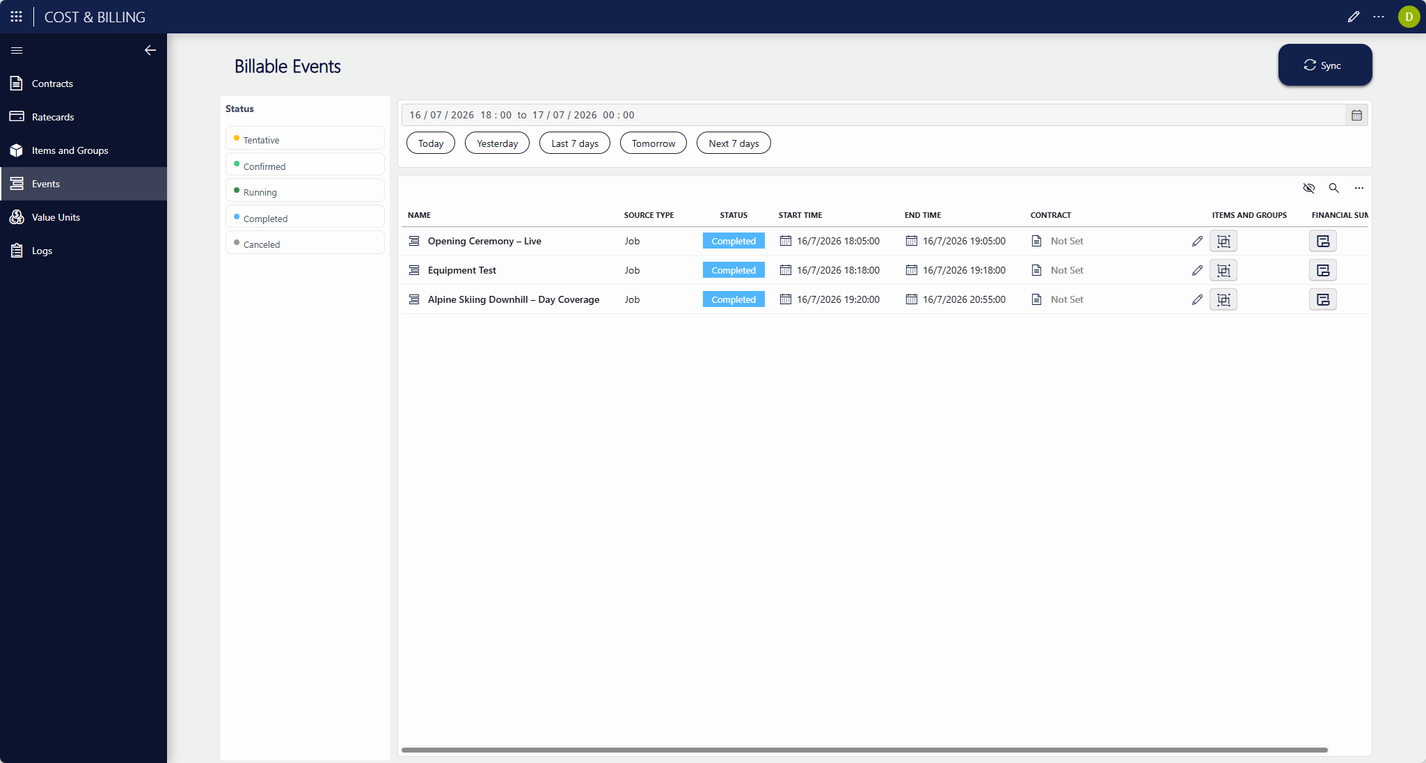
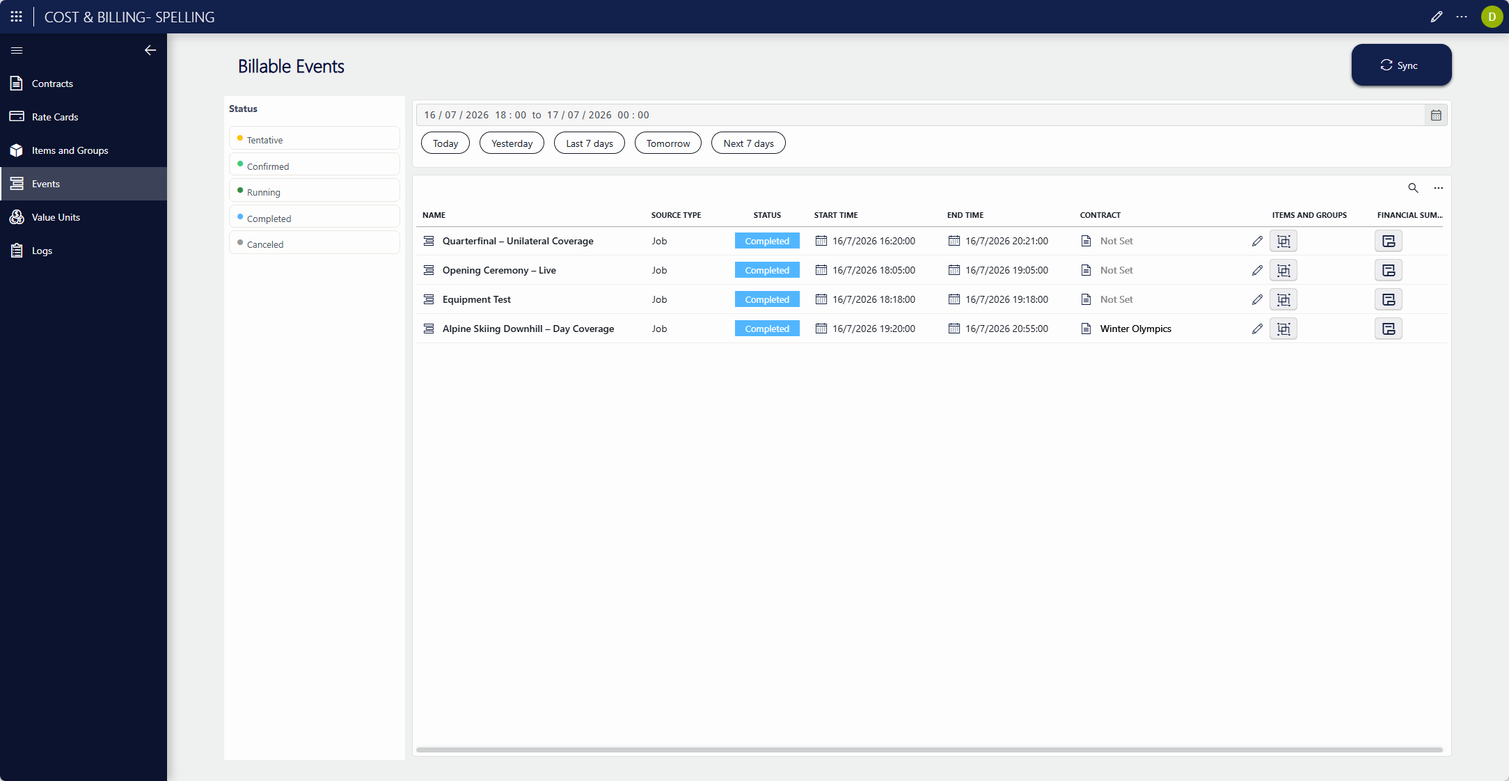
Changed rate card spelling and gui screen shots

diff --git a/solutions/standard_solutions/Cost_And_Billing/Configuration_Usage.md b/solutions/standard_solutions/Cost_And_Billing/Configuration_Usage.md
@@ -3,7 +3,7 @@ uid: Cost_Billing_Use
 ---
 # How to use
 
-This section explains how to use the Cost & Billing application: from the initial configuration of value units, over the creation of ratecards and contracts, to synchronizing data from the external system and calculating the cost and billing of billable events.
+This section explains how to use the Cost & Billing application: from the initial configuration of value units, over the creation of rate cards and contracts, to synchronizing data from the external system and calculating the cost and billing of billable events.
 
 After installing the solution, open the **Cost & Billing Low-Code App** in DataMiner. All configuration and day-to-day operations described below are done from this app.
 
@@ -21,9 +21,9 @@ To set the nominal value unit, click the **Set Nominal Unit** option on the page
 
 ### Defining currency exchange rates
 
-Ratecards and contracts in the application can be defined in different value units. However, since the final calculations are always expressed in the nominal value unit, exchange rates must be defined for every other value unit you want to use.
+Rate cards and contracts in the application can be defined in different value units. However, since the final calculations are always expressed in the nominal value unit, exchange rates must be defined for every other value unit you want to use.
 
-Only the units listed in the Value Units table will be available for selection when creating a ratecard or a contract.
+Only the units listed in the Value Units table will be available for selection when creating a rate card or a contract.
 
 To create a value unit conversion:
 
@@ -35,31 +35,31 @@ All value unit conversion rates are visible on the Value Units page.
 
 ### Editing and deprecating value units
 
-Each value unit can be edited afterwards. A value unit can also be **deprecated**: a deprecated value unit can no longer be used when creating new contracts or ratecards, or when performing calculations. Value Units can also be deprecated in bulk with the action buttons: Deprecate All and Deprecate Selected.
+Each value unit can be edited afterwards. A value unit can also be **deprecated**: a deprecated value unit can no longer be used when creating new contracts or rate cards, or when performing calculations. Value Units can also be deprecated in bulk with the action buttons: Deprecate All and Deprecate Selected.
 
-## Ratecards
+## Rate cards
 
-Ratecards define the rates used by the calculation. Go to the **Ratecards** page to manage all ratecards.
+Rate cards define the rates used by the calculation. Go to the **Rate cards** page to manage all rate cards.
 
-There are two kinds of ratecards, each with a different purpose:
+There are two kinds of rate cards, each with a different purpose:
 
-- **Cost ratecards** — define the internal cost of an item (what it costs your organization).
-- **Billing ratecards** — define the customer-facing rates, and are assigned to contracts.
+- **Cost rate cards** — define the internal cost of an item (what it costs your organization).
+- **Billing rate cards** — define the customer-facing rates, and are assigned to contracts.
 
-![Cost & Billing ratecards](~/solutions/images/CostAndBilling_ratecards.png)
+![Cost & Billing rate cards](~/solutions/images/CostAndBilling_ratecards.png)
 
-### Creating a ratecard
+### Creating a rate card
 
-To create a ratecard, click **+ New Ratecard**. The following fields are available:
+To create a rate card, click **+ New Rate Card**. The following fields are available:
 
 **General**
 
 | Field | Description |
 | --- | --- |
-| **Name** | The name of the ratecard. |
-| **Ratecard Type** | Whether this is a **Cost** or a **Billing** ratecard. |
-| **State** | The initial state of the ratecard. Create it as **Draft** if it is not yet officially ready to be used, or directly as **Active**. |
-| **Value Unit** | The value unit in which the rates of this ratecard are expressed. Only value units defined on the Value Units page are available. |
+| **Name** | The name of the rate card. |
+| **Rate card Type** | Whether this is a **Cost** or a **Billing** rate card. |
+| **State** | The initial state of the rate card. Create it as **Draft** if it is not yet officially ready to be used, or directly as **Active**. |
+| **Value Unit** | The value unit in which the rates of this rate card are expressed. Only value units defined on the Value Units page are available. |
 
 **Rules**
 
@@ -67,23 +67,23 @@ To create a ratecard, click **+ New Ratecard**. The following fields are availab
 | --- | --- |
 | **Minimum Time Interval** | The minimum duration that will be charged. If the actual usage is shorter than this interval, the minimum is charged instead. |
 | **Minimum Time Increment** | The increment in which usage time is charged. Usage is rounded up to the next multiple of this increment. |
-| **Capped Rate** | When enabled, the total amount calculated with this ratecard is capped at the given maximum value. |
+| **Capped Rate** | When enabled, the total amount calculated with this rate card is capped at the given maximum value. |
 
 **Rates**
 
-Each ratecard holds one or more rates, each expressed against a **unit**: per minute, per hour, per day, or per use. Fill in the rate value and select the corresponding unit, and use **+ Add Rate** to add additional rate lines. A rate line can be removed with the **X** button.
+Each rate card holds one or more rates, each expressed against a **unit**: per minute, per hour, per day, or per use. Fill in the rate value and select the corresponding unit, and use **+ Add Rate** to add additional rate lines. A rate line can be removed with the **X** button.
 
-Click **Save** to create the ratecard.
+Click **Save** to create the rate card.
 
-### Ratecard states
+### Rate card states
 
-A ratecard always follows the same state flow: **Draft → Active → Deprecated**.
+A rate card always follows the same state flow: **Draft → Active → Deprecated**.
 
-- **Draft** — the ratecard is being prepared and is not officially ready to be used.
-- **Active** — the ratecard can be use.
-- **Deprecated** — the ratecard is retired. Once a ratecard is deprecated, it can **no longer be edited or set back** to the Active or Draft state.
+- **Draft** — the rate card is being prepared and is not officially ready to be used.
+- **Active** — the rate card can be use.
+- **Deprecated** — the rate card is retired. Once a rate card is deprecated, it can **no longer be edited or set back** to the Active or Draft state.
 
-Ratecards can be edited as long as they are not deprecated. It is also possible to change the state of multiple selected ratecards at once through the **action buttons** on the Ratecards page.
+Rate cards can be edited as long as they are not deprecated. It is also possible to change the state of multiple selected rate cards at once through the **action buttons** on the Rate cards page.
 
 ## Contracts
 
@@ -122,23 +122,23 @@ To create a contract, click **+ New Contract**. The following fields are availab
 
 Click **Save** to create the contract.
 
-### Assigning billing ratecards
+### Assigning billing rate cards
 
-For each contract, it is possible to assign the **billing ratecards** to be used in the calculation. Assignments can be made at different levels:
+For each contract, it is possible to assign the **billing rate cards** to be used in the calculation. Assignments can be made at different levels:
 
-- **Item level** — a billing ratecard assigned to a specific item.
-- **Group level** — a billing ratecard assigned to a specific group.
-- **Category level** — every item and group has a category assigned. Categories can be used to define **default billing ratecards per category**, which apply to all items or groups of that category that do not have a specific assignment.
+- **Item level** — a billing rate card assigned to a specific item.
+- **Group level** — a billing rate card assigned to a specific group.
+- **Category level** — every item and group has a category assigned. Categories can be used to define **default billing rate cards per category**, which apply to all items or groups of that category that do not have a specific assignment.
 
 ### Contract states
 
-Contracts follow the same state flow as ratecards: **Draft → Active → Deprecated**, with the same rules — once deprecated, a contract can no longer be edited or brought back to Active or Draft. The **action buttons** on the Contracts page also allow changing the state of multiple selected contracts in bulk.
+Contracts follow the same state flow as rate cards: **Draft → Active → Deprecated**, with the same rules — once deprecated, a contract can no longer be edited or brought back to Active or Draft. The **action buttons** on the Contracts page also allow changing the state of multiple selected contracts in bulk.
 
 ## Items & Groups
 
 The **Items & Groups** page shows the inventory that has been brought into Cost & Billing from the third-party solution via the adapter:
 
-- The **Items table** lists all items synced from the external system. In the sample solution integrating with MediaOps Plan, these are the **resources and resource pools**. In this table it is possible to assign a **cost ratecard** to an item.
+- The **Items table** lists all items synced from the external system. In the sample solution integrating with MediaOps Plan, these are the **resources and resource pools**. In this table it is possible to assign a **cost rate card** to an item.
 - The **Groups table** lists all groups synced via the adapter. In the MediaOps Plan sample, these are the **workflows**.
 
 ![Cost & Billing items and groups](~/solutions/images/CostAndBilling_items-groups.png)
@@ -178,20 +178,27 @@ To calculate the cost and billing of a billable event make sure the event has a 
 
 #### How the calculation works
 
-> **Note:** This section describes the calculation as implemented in the **MediaOps Plan sample calculation script**, which is **time-based**. As with the adapter, this script is specific to the MediaOps sample integration: it can be **reused as-is** for other time-based integrations, or **used as a base and customized** where a different integration needs different logic. The behavior described below reflects the sample script only — a customized script may calculate differently.
+> **Note:** This section describes the calculation as implemented in the **MediaOps Plan sample calculation script**, which is **time-based**. As with the adapter, this script is specific to the MediaOps Plan sample integration: it can be **reused as-is** for other time-based integrations, or **used as a base and customized** where a different integration needs different logic. The behavior described below reflects the sample script only — a customized script may calculate differently.
 
 When a calculation is triggered on a billable event, the sample script produces a set of **billable items** (calculation lines) for that event: one side for **cost** (what the activity costs your organization) and one side for **billing** (what the customer is charged). The two sides are calculated independently but follow the same time-based logic.
+
+#### Script Input Parameters
+
+| Variable|Description |
+| --- | --- |
+| **Input** | The identifier of the **Billable Event** to calculate |
+| **Output** | Exits success with a summary, or exits fail with the reason |
 
 ##### Cost calculation
 
 Cost is calculated per item of the billable event, in four steps:
 
-1. **Resolve the cost ratecard.** For each item, the script looks for a cost ratecard assigned to the item itself. If the item has none, it falls back to the ratecard of its **parent item** (in MediaOps terms, the resource pool the resource belongs to). If neither has a cost ratecard, the item is skipped and logged as an error — it contributes nothing to the cost.
-2. **Determine the charged time.** The item's real duration (end time − start time) is adjusted by the ratecard's timing rules:
+1. **Resolve the cost rate card.** For each item, the script looks for a cost rate card assigned to the item itself. If the item has none, it falls back to the rate card of its **parent item** (in MediaOps terms, the resource pool the resource belongs to). If neither has a cost rate card, the item is skipped and added to the Error Table. — it contributes nothing to the cost.
+2. **Determine the charged time.** The item's real duration (end time − start time) is adjusted by the rate card's timing rules:
    - **Minimum time interval** — the floor. Usage shorter than the interval is charged as the full interval.
    - **Minimum time increment** — the step size beyond the interval. Any excess above the interval is rounded **up** to the next whole increment.
-3. **Apply the rates.** The charged time is converted into an amount using the ratecard's rates (per minute, per hour, per day). Larger units are filled first, and the smallest available unit absorbs the remainder, rounded up, so no used time is charged as zero. A **per-use** rate, if present, adds a fixed amount on top regardless of duration. If a **capped rate** is set, the item's cost cannot exceed it.
-4. **Write the result.** Each rate produces a billable item line, and the lines are summed into the item's total cost.
+3. **Apply the rates.** The charged time is converted into an amount using the rate card's rates (per minute, per hour, per day). Larger units are filled first, and the smallest available unit absorbs the remainder. A **per-use** rate, if present, adds a fixed amount on top regardless of duration. If a **capped rate** is set, the item's cost cannot exceed it.
+4. **Write the result.** Each rate produces a billable item line, and the lines are summed into the item's total cost. If where  errors or items skipped during the calculation these are added to the Errors Table.
 5. **Override an item's cost (optional)**. After the calculation, the Total Calculated Amount of any billable item can be overridden manually. This value replaces that item's calculated cost entirely, and it is preserved on recalculation: when the event's total cost is computed again, the override is used in the total cost sum instead of the recalculated value.
 
 ##### Billing calculation
@@ -199,7 +206,11 @@ Cost is calculated per item of the billable event, in four steps:
 Billing is calculated in a similar way, but driven by the **contract** assigned to the billable event, and only if the event falls within the contract's validity period.
 
 1. **Determine what is billed.** The contract's **billing type** decides whether billing is calculated for **Items**, **Groups**, or **Items and Groups**. With *Item and Group*, both are calculated independently and their totals are summed.
-2. **Resolve the billing ratecard.** For each item or group, the script looks for a billing ratecard assignment on the contract at the most specific level available: the specific item (or its parent item), the specific group, or the **category** default. If none is found, that entry is skipped and logged as an error.
+2. **Resolve the billing rate card.** The script looks for a billing rate card assignment
+   on the contract, at the most specific level available:
+   - **For an item** — the specific item → its parent item → the item's **category**.
+   - **For a group** — the specific group → the group's **category**. 
+   If none is found, that entry is skipped and added to the Error Table.
 3. **Determine the charged time.** The same timing rules as the cost calculation apply — minimum time interval, minimum time increment, and capped value behave identically on the billing side.
 4. **Apply the contract's commercial modifiers.** After the base amount is calculated, the contract's rules are applied:
    - **Uplift %** — a percentage increase, applied first.
@@ -210,10 +221,13 @@ Billing is calculated in a similar way, but driven by the **contract** assigned 
 
 ##### Currency conversion
 
-Ratecards may be defined in a different value unit than the solution's **nominal value unit**. Any amount produced by a ratecard is converted into the nominal value unit — using the exchange rate valid at the time of the billable event — before it is written to the billable item and rolled into the event totals. This ensures every total on the event is expressed in the same nominal unit.
+Rate cards may be defined in a different value unit than the solution's **nominal value unit**. Any amount produced by a rate card is converted into the nominal value unit — using the exchange rate valid at the time of the billable event (Value Unit Table) — before it is written to the billable item and rolled into the event totals. This ensures every total on the event is expressed in the same nominal unit.
 
 #### Finalize summary
 
 After a calculation, at any point, you can mark the billable event as **Finalized** — a button available in the calculation panel. This **freezes** the calculated results: the billable event can no longer be recalculated.
 
-This is useful when, for example, a ratecard configuration or a contract condition changes afterwards: freezing the result guarantees that such changes will not affect it. Note that this action is **irreversible** — once a billable event is Finalized, it cannot be unfrozen or recalculated, and there is no way back.
+This is useful when, for example, a rate card configuration or a contract condition changes afterwards: freezing the result guarantees that such changes will not affect it. Note that this action is **irreversible** — once a billable event is Finalized, it cannot be unfrozen or recalculated, and there is no way back.
+
+A billable event can be calculated as many times as needed, as long as it has not been
+finalized

diff --git a/solutions/standard_solutions/Cost_And_Billing/Architecture.md b/solutions/standard_solutions/Cost_And_Billing/Architecture.md
@@ -4,7 +4,7 @@ uid: Cost_Billing_Architecture
 
 # Architecture
 
-Cost & Billing is a solution for managing the financial side of daily operations. It calculates both the internal cost and the customer-facing billing of operational activities, based on contracts and ratecards defined within the application.
+Cost & Billing is a solution for managing the financial side of daily operations. It calculates both the internal cost and the customer-facing billing of operational activities, based on contracts and rate cards defined within the application.
 
 The solution is designed to be **source-agnostic**. It operates on generic concepts that are independent of any external system. All integrations with external systems are handled by dedicated **adapters**: the adapter translates source-specific concepts into the generic Cost & Billing model. This way, the Cost & Billing core never references external modules directly. 
 
@@ -21,7 +21,7 @@ The solution is built around three clearly separated layers:
 
 | Layer | Role |
 | --- | --- |
-| **Cost & Billing** | The core module. It owns the generic domain model (Items, Groups, Billable Events, Contracts and Ratecards). It is completely **source-agnostic**: it contains no references any external system. |
+| **Cost & Billing** | The core module. It owns the generic domain model (Items, Groups, Billable Events, Contracts and Rate cards). It is completely **source-agnostic**: it contains no references any external system. |
 | **Adapter** | The component responsible for fetching data from the external system and mapping it to the Cost & Billing domain objects (e.g. resources → Items, jobs → Billable Events). The adapter is the **only** component that knows about both worlds. |
 | **Third-party system** | The external operations platform (MediaOps Plan in the sample, or any equivalent solution). It acts as the source of truth for operational data that must be reflected in Cost & Billing. It is accessed exclusively through the adapter. |
 
@@ -43,10 +43,10 @@ The full component stack of the sample solution:
 
 | Component | Description & role |
 | --- | --- |
-| **LCA (Low-Code App)** | The user-facing DataMiner interface. This is where users manage contracts and ratecards, browse the synced items and billable events, and calculate the cost and billing of those billable events. |
+| **LCA (Low-Code App)** | The user-facing DataMiner interface. This is where users manage contracts and rate cards, browse the synced items and billable events, and calculate the cost and billing of those billable events. |
 | **Interface Script** | A dedicated Automation Script that acts as the  communication layer between the LCA and whichever adapter is deployed. The LCA always calls this script; the script calls the correct adapter. This decouples the LCA from adapter-specific implementation — **swapping or adding adapters requires no changes to the LCA**. |
 | **Automation Scripts** | The solution contains a series of DataMiner Automation Scripts (ad-hoc, interactive, and basic automation). These are mainly used through the LCA to retrieve data, handle user interactions such as creating or saving data, and perform logic. |
-| **Cost & Billing Dev Pack** | A reusable package containing the SDM (Standard Data Model): the DOM interaction layer that provides typed read/write access to the Cost & Billing DOM instances (ratecards, contracts, items, billable events, etc.). |
+| **Cost & Billing Dev Pack** | A reusable package containing the SDM (Standard Data Model): the DOM interaction layer that provides typed read/write access to the Cost & Billing DOM instances (rate cards, contracts, items, billable events, etc.). |
 | **Adapter** | The system-specific component (MediaOps Plan Adapter in the sample). Fetches external data, maps it to Cost & Billing domain objects.
 | **Third-party system** | The external operations platform. Source of truth for operational data. Accessed only through the adapter. |
 
@@ -56,13 +56,13 @@ The full component stack of the sample solution:
 
 The Cost & Billing domain model operates purely on generic concepts:
 
-- **Item** — the individual entity that can be costed and billed. Every Item should have a **CostRatecard** assigned, representing its internal cost. An item carries a `category` attribute (e.g. `Resource` and `Resource Pool`); Cost & Billing stores the category as a string and uses it for default **Billing Ratecard** resolution in a **Contract** without interpreting its meaning. The meaning of each category is defined by the adapter. Items are created and managed by the adapter.
+- **Item** — the individual entity that can be costed and billed. Every Item should have a **Cost Rate Card** assigned, representing its internal cost. An item carries a `category` attribute (e.g. `Resource` and `Resource Pool`); Cost & Billing stores the category as a string and uses it for default **Billing Rate card** resolution in a **Contract** without interpreting its meaning. The meaning of each category is defined by the adapter. Items are created and managed by the adapter.
 - **Group** — a standalone billing entity within a Billable Event. Unlike an Item, a Group does not represent a physical resource — it exists purely as a billing unit. Each Group also carries a `category` attribute (e.g. `Workflow`). A Group can only be billed, never costed — cost is always tracked at the Item level.
 - **Node** — the middle layer between a Billable Event and its Items. A Billable Event does not reference a list of Items directly; it references a list of Nodes. Each Node holds a reference to an Item and, optionally, a reference to a **parent Item**. This makes it possible to express that an Item belongs to another Item within the context of the event. In MediaOps Plan terms, a Node indicates the Item (a resource) and the parent Item (the resource pool it belongs to).
-- **Cost Ratecard** — the internal cost rate for an Item (what it costs the organization), independent of any customer contract. In the time-based sample this is a rate applied against usage duration.
-- **Billing Ratecard** — the customer-facing rate, always assigned within the context of a **Contract**. The same Item can carry different billing rates under different contracts. In the time-based sample this is a rate applied against the duration that an item or group was used.
-- **Contract** — the commercial agreement with a customer. It defines which Items and Groups drive the billing calculation, holds Billing Ratecard assignments, specifies the billing value unit, and carries commercial rules such as uplifts and discounts.
-- **ContractRatecardAssignment** — links a Billing Ratecard to a Contract at one of three levels of granularity: a **specific Item**, a **specific Group**, or a **category** (a default for all Items or Groups of that category).
+- **Cost Rate Card** — the internal cost rate for an Item (what it costs the organization), independent of any customer contract. In the time-based sample this is a rate applied against usage duration.
+- **Billing Rate Card** — the customer-facing rate, always assigned within the context of a **Contract**. The same Item can carry different billing rates under different contracts. In the time-based sample this is a rate applied against the duration that an item or group was used.
+- **Contract** — the commercial agreement with a customer. It defines which Items and Groups drive the billing calculation, holds Billing Rate Card assignments, specifies the billing value unit, and carries commercial rules such as uplifts and discounts.
+- **Contract Rate Card Assignment** — links a Billing Rate Card to a Contract at one of three levels of granularity: a **specific Item**, a **specific Group**, or a **category** (a default for all Items or Groups of that category).
 - **Value Unit** — a supported cost and billing unit (currency, token, or other unit of value) with its exchange rate relative to the nominal unit. The exchange rate applied during calculation is the one valid at the time of the Billable Event.
 - **Billable Event** — the source event or period being billed, and the entry point for any calculation. A Billable Event has **Groups** and **Nodes**: the Groups represent the standalone billing entities involved, and the Nodes represent the Items used in the event (including their parent Item relationships). It stores a source reference (external ID) and source type; Cost & Billing does not interpret these — the adapter uses them to know which external event to retrieve data from.
 - **Billable Item** — one calculation line within a Billable Event; one is created per Item/group and rate used in the event. BillableItems are replaced on recalculation and **frozen once the Financial Summary is finalized**, protecting the values sent to finance.
@@ -88,5 +88,5 @@ Synchronization between the external system and Cost & Billing is performed thro
 
 Because of the daily sync strategy, changes made in the external system during the day are not reflected in Cost & Billing until the next sync runs. When a user cannot find an expected event (e.g. a job created mid-day), they can **trigger a manual sync**, which reconciles all differences between the external system and Cost & Billing (this may take some time depending on data volume).
 
-Items, groups and events that no longer exist in the external system are **not deleted** from Cost & Billing. They transition to a *Missing* state, preserving historical billing records and ratecard links.
+Items, groups and events that no longer exist in the external system are **not deleted** from Cost & Billing. They transition to a *Missing* state, preserving historical billing records and rate card links.
 

diff --git a/solutions/standard_solutions/Cost_And_Billing/Cost_And_Billing.md b/solutions/standard_solutions/Cost_And_Billing/Cost_And_Billing.md
@@ -4,13 +4,13 @@ uid: Cost_Billing_Intro
 
 # Cost & Billing
 
-The Cost & Billing solution provides financial visibility into your operations by linking financial information to operational activities. Contracts and ratecards defined within the application are used to determine both internal costs and customer-facing billable charges.
+The Cost & Billing solution provides financial visibility into your operations by linking financial information to operational activities. Contracts and rate cards defined within the application are used to determine both internal costs and customer-facing billable charges.
 By linking financial data directly to operational events, Cost & Billing transforms operational data into clear, traceable financial insights.
 
 With the Cost & Billing solution, you can:
 
-- **Manage customer contracts**, including validity periods, uplifts, discounts, rounding rules, and the applicable billing ratecards.
-- **Manage cost and billing ratecards**, defining both the cost of operational activities and the charges billed to customers, with support for rules such as minimum time intervals, minimum increments, and capped rates.
+- **Manage customer contracts**, including validity periods, uplifts, discounts, rounding rules, and the applicable billing rate cards.
+- **Manage cost and billing rate cards**, defining both the cost of operational activities and the charges billed to customers, with support for rules such as minimum time intervals, minimum increments, and capped rates.
 - **Work with multiple currencies** by defining **value units** and exchange rates relative to a **nominal value unit** in which all final results are expressed.
 - **Synchronize the operational inventory**, including items, groups, and billable events from external systems through adapters.
 - **Calculate costs and billable charges** for billable events at any stage of their lifecycle, and freeze the results when they are ready to be finalized.
@@ -29,7 +29,7 @@ The solution consists of the following components:
 
 While this sample covers just the integration with **MediaOps Plan**, the solution was deliberately designed to be flexible:
 
-- **Other billing models.** The Cost & Billing component currently focuses on time-based cost and billing only. Its model, however, is flexible enough to later support other billing models. Supporting these models requires expanding the Cost & Billing solution itself — for example with subscription contract and ratecard definitions.
+- **Other billing models.** The Cost & Billing component currently focuses on time-based cost and billing only. Its model, however, is flexible enough to later support other billing models. Supporting these models requires expanding the Cost & Billing solution itself — for example with subscription contract and rate card definitions.
 - **Other external solutions.** To integrate with another time-based external system, only a **new adapter** and a **new calculation script** need to be developed. The sample MediaOps Plan components simplify this process: the **MediaOps Plan Calculation Script** can be reused when no integration-specific calculation logic is required, while the **MediaOps Plan Adapter** can serve as the foundation for implementing the new adapter.
 
 For a detailed description of how the components fit together, see the [Architecture](architecture.md) section. To get started, see [Installation](Installation.md) and [How to use](Configuration_Usage.md).

diff --git a/solutions/standard_solutions/Cost_And_Billing/Installation.md b/solutions/standard_solutions/Cost_And_Billing/Installation.md
@@ -24,7 +24,7 @@ The **Cost & Billing Solution** package contains:
 - The DOM model and automation scripts.
 - The Cost & Billing Dev Pack, which includes the Standard Data Model and provides typed read/write access to the Cost & Billing DOM instances.
 
-Once the package is installed, the core concepts within the Cost & Billing application are fully functional, including **Value Units**, **Contracts**, and **Ratecards**.
+Once the package is installed, the core concepts within the Cost & Billing application are fully functional, including **Value Units**, **Contracts**, and **Rate Cards**.
 
 ## Installing the MediaOps sample integration 
 
